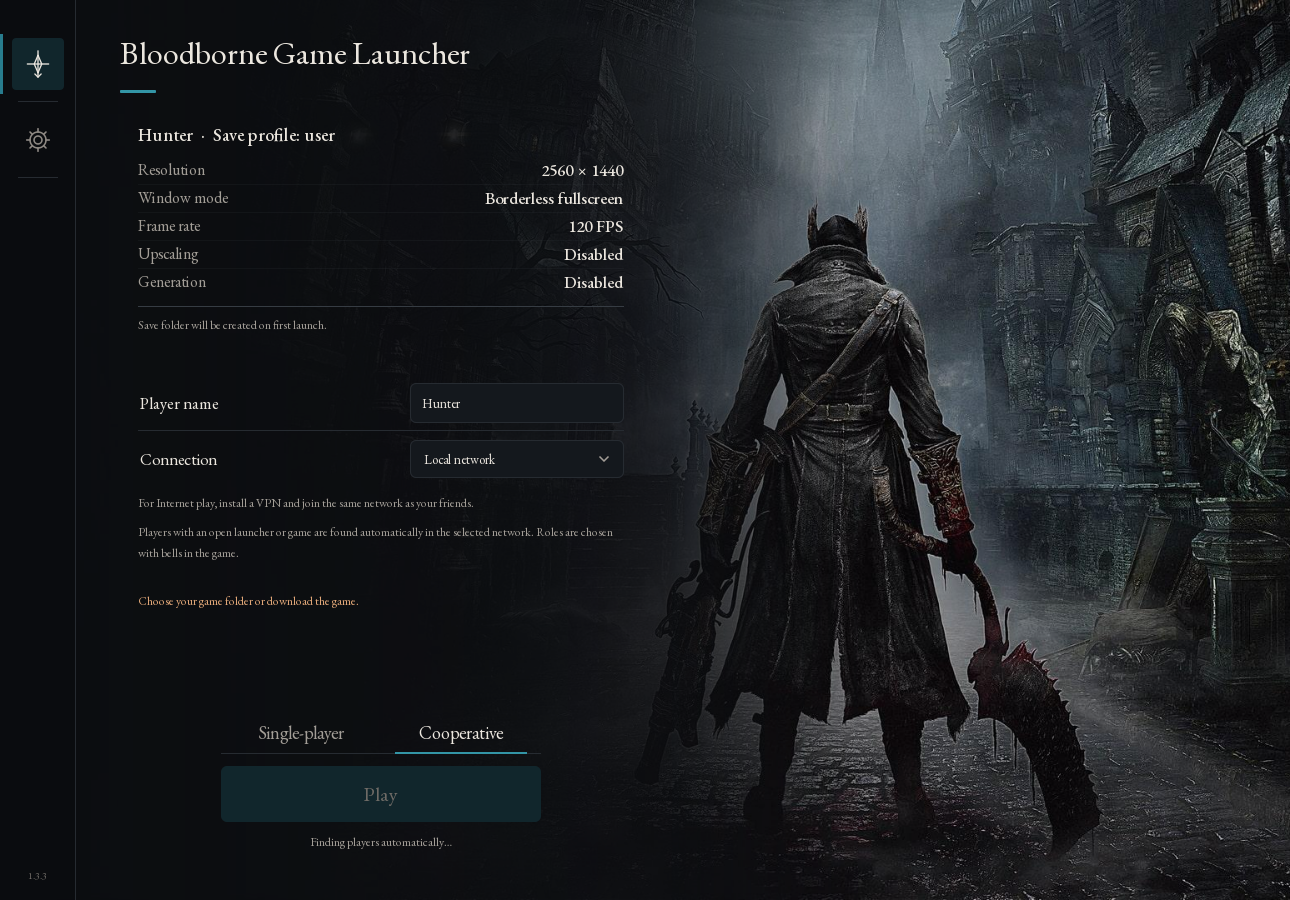
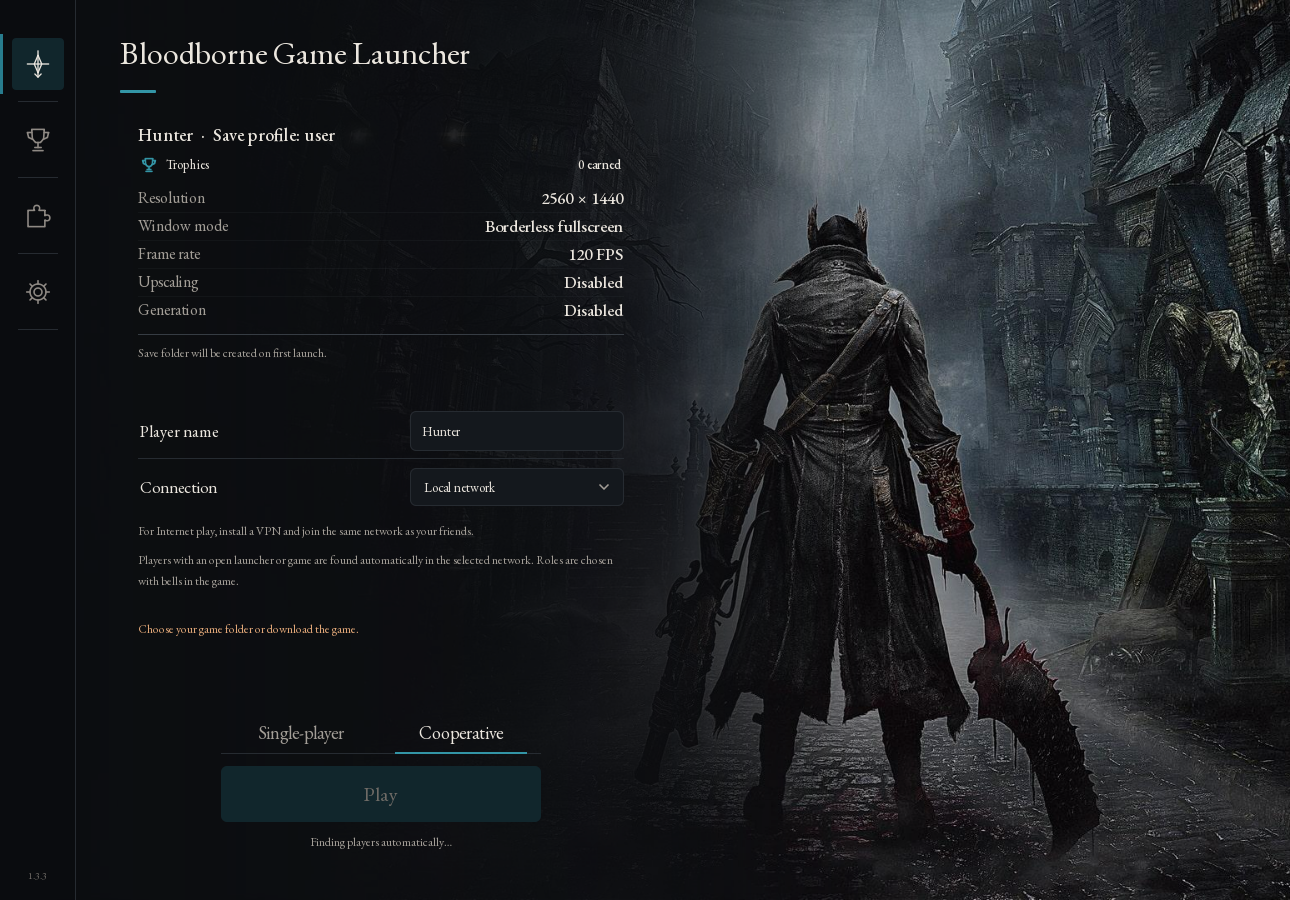
release: prepare BBGL 1.4.0

diff --git a/tools/capture_release_screenshots.py b/tools/capture_release_screenshots.py
@@ -57,16 +57,18 @@ def main():
             window.setWidth(1290)
             window.setHeight(900)
             workspace = window.findChild(QObject, 'settingsWorkspace')
+            mods = window.findChild(QObject, 'modsPage')
+            wizard = window.findChild(QObject, 'setupWizard')
             output = args.output.resolve()
             output.mkdir(parents=True, exist_ok=True)
             shots = [('home', None, None), ('graphics', 'Visuals', 'Display & frame rate')]
             if args.review:
                 import bbport_launcher_backend as model
-                shots = [('home', None, None)]
+                shots = [('home', None, None), ('trophies', 'Trophies', None)]
                 shots += [(f'section-{i}-{j}', category, section)
                           for i, (category, sections) in enumerate(model.SETTINGS_SECTIONS.items())
                           for j, (section, _) in enumerate(sections)]
-                shots += [(f'setup-{step}', 'Setup', step) for step in range(4)]
+                shots += [(f'setup-{step}', 'Setup', step) for step in range(5)]
             sizes = [(1290, 900), (1050, 650)] if args.review else [(1290, 900)]
             metrics = []
             def inspect(item, screen):
@@ -86,10 +88,15 @@ def main():
                     window.setWidth(width)
                     window.setHeight(height)
                     for name, category, section in shots:
-                        window.setProperty('page', 'Setup' if category == 'Setup' else 'Settings' if category else 'Home')
+                        if category in ('Setup', 'Mods', 'Trophies'):
+                            window.setProperty('page', category)
+                        else:
+                            window.setProperty('page', 'Settings' if category else 'Home')
                         if category == 'Setup':
-                            window.findChild(QObject, 'setupWizard').setProperty('step', section)
-                        elif category:
+                            wizard.goToStep(section)
+                        elif category == 'Mods':
+                            mods.openAt(section, '')
+                        elif category and category != 'Trophies':
                             workspace.openAt(category, section, '')
                         QTest.qWait(220 if args.review else 700)
                         suffix = f'-{width}' if args.review else ''

diff --git a/launcher/bbport_launcher_win.py b/launcher/bbport_launcher_win.py
@@ -44,8 +44,8 @@ PATCH_VERSION = '01.09'
 MAX_LOG_LINES = 6000
 NO_WINDOW = getattr(subprocess, 'CREATE_NO_WINDOW', 0)
 # This fork's build; the release tag includes this version.
-VERSION = '1.3.3'
-CURRENT_RELEASE_TAG = 'v1.3.3'
+VERSION = '1.4.0'
+CURRENT_RELEASE_TAG = 'v1.4.0'
 HERO_ART = PORT_DIR / 'launcher' / 'art' / 'hero.png'
 STRIP_ART = PORT_DIR / 'launcher' / 'art' / 'strip.png'
 RELEASES_API = 'https://api.github.com/repos/mark3317/bbgl/releases/latest'

diff --git a/docs/release-1.4.0.md b/docs/release-1.4.0.md
@@ -1,0 +1,33 @@
+# BBGL 1.4.0
+
+- The home screen shows trophy progress for the selected save profile. The new Trophies page lists earned and locked trophies with details and unlock dates where available.
+- Trophy notification settings are shared between the launcher and the in-game overlay. The launcher can preview themes and sounds.
+- Mods and cheats have a dedicated sidebar page. Setup and Settings share the control icon and graphics preset pickers.
+- The in-game System menu uses its compact five-slot frame. Trophies and notification settings remain available through **Insert** or **L3 + R3**. The overlay can toggle invincibility, one-hit kills, invisibility and silent movement during play. Cheats start disabled in a fresh profile.
+- Hunter’s Atlas and unused launcher artwork have been removed. The bundle includes BBSC-GL 1.4.0 and Party. Co-op gameplay code carries over from 1.3.3. [BBSC-GL 1.4.0](https://github.com/mark3317/bbsc-gl/releases/tag/v1.4.0)
+
+### Install or update
+
+Extract `bbgl-1.4.0-windows-x64.zip` and run **Bloodborne.exe**. Use Windows x64, a Vulkan-capable driver and your Bloodborne **CUSA03173 with update 1.09**. Keep your existing profile, saves and custom mods when updating. All co-op players need BBGL 1.4.0 and the same LAN or VPN.
+
+### Gameplay checks
+
+The menu geometry was checked with 1.09 resources, and the live cheat switches were checked on a test bench. Co-op gameplay from the 1.4.0 ZIP and visual inspection of the in-game interface in both languages remain open.
+
+---
+
+## Русский
+
+- На главном экране виден прогресс трофеев выбранного профиля. На странице «Трофеи» показаны открытые и закрытые трофеи, подробности и доступные даты получения.
+- Лаунчер и игровой оверлей используют общие настройки уведомлений. В лаунчере можно посмотреть оформление и прослушать звук.
+- Моды и читы вынесены на отдельную страницу в боковом меню. Мастер первого запуска и настройки используют общие элементы выбора подсказок управления и графического пресета.
+- Меню «Система» использует компактную рамку на пять строк. Трофеи и уведомления доступны через **Insert** или **L3 + R3**. В оверлее можно переключать бессмертие, убийство с одного удара, невидимость и бесшумность во время игры. В новом профиле читы выключены.
+- Удалены Hunter’s Atlas и неиспользуемые изображения лаунчера. В комплект входят BBSC-GL 1.4.0 и Party. Игровая логика кооператива сохранена из 1.3.3. [BBSC-GL 1.4.0](https://github.com/mark3317/bbsc-gl/releases/tag/v1.4.0)
+
+### Установка и обновление
+
+Распакуйте `bbgl-1.4.0-windows-x64.zip` и запустите **Bloodborne.exe**. Нужны Windows x64, драйвер Vulkan и Bloodborne **CUSA03173 с обновлением 1.09**. При обновлении сохраните профиль, сохранения и пользовательские моды. Всем участникам нужны BBGL 1.4.0 и общая локальная сеть или VPN.
+
+### Игровые проверки
+
+Компоновку меню проверили на ресурсах 1.09, а переключатели читов — на стенде. Игровой прогон кооператива из ZIP 1.4.0 и визуальная проверка интерфейса в игре на двух языках открыты.

diff --git a/BUILDING.md b/BUILDING.md
@@ -12,16 +12,16 @@ bash packaging/windows/build-coop-package.sh
 
 The command builds BBSC-GL from `mods-src/BBSC`, builds the port, freezes the launcher and assembles the P2P runtime. FSR-Vulkan is pinned from the [BBGL dependency fork](https://github.com/mark3317/UniversalScalers-Vulkan), which includes the frame-resource lifetime fix used by this release. The current co-op path needs no separate game server, shadNet account or invitation. Historical server build scripts are not part of this release path.
 
-Staging: `out/stage/Bloodborne Game Launcher`. Release: `dist/bbgl-1.3.3-windows-x64.zip` and its `.zip.sha256`. Staging is recreated during packaging; never point it at an installed launcher. Player settings, saves, accounts, logs and game files must not be included.
+Staging: `out/stage/Bloodborne Game Launcher`. Release: `dist/bbgl-1.4.0-windows-x64.zip` and its `.zip.sha256`. Staging is recreated during packaging; never point it at an installed launcher. Player settings, saves, accounts, logs and game files must not be included.
 
 Button prompts and the optional Diamond Sword use binary deltas from `bundled-mods`, applied to the player's own 1.09 files. No game folder is needed to build the release. Diamond Sword and all cheats are disabled by default. Detailed logging, research, profiling and Vulkan validation are opt-in; see [logging policy](docs/LOGGING.md).
 
 `SKIP_BUILD=1` skips only the port for verified launcher-only iterations. BBSC is still rebuilt. A release candidate uses the full command without `BB_FAST_DEPLOY=1`; the fast option is for ordinary local deployment and skips release verification.
 
-`package.sh` verifies the final staging payload once. The wrapper creates the versioned archive and SHA-256. Check ZIP structure, CRC, and file names and contents against verified staging. Smoke-test the frozen launcher from the extracted ZIP in separate English and Russian temporary profiles. Follow [targeted testing rules](docs/TESTING.md); no full test sweep is required just for packaging. Record build, deployment and gameplay validation separately, and disclose untested gameplay changes.
+`package.sh` verifies the final staging payload once. The wrapper creates the versioned archive and SHA-256. Check ZIP structure, CRC, and file names and contents against verified staging. Extract the matching BBSC-GL ZIP from this validated launcher ZIP using its bundled DLL, Party, metadata and licences. Smoke-test the frozen launcher from the extracted ZIP in separate English and Russian temporary profiles. Follow [targeted testing rules](docs/TESTING.md); no full test sweep is required just for packaging. Record build, deployment and gameplay validation separately, and disclose untested gameplay changes.
 
 Commit the intended BBSC changes before updating the parent gitlink. `coop/SOURCE.json` records the mod commit and whether its checkout had local changes; a candidate with local changes is not a reproducible tagged source. Do not publish or push until the user has reviewed the release text. Published tags are immutable.
 
 When building a Git for Windows checkout from MSYS2, use the same line-ending configuration in both environments. If Git for Windows reports a clean checkout but MSYS2 reports only CRLF differences in BBSC dependencies, run the build with `GIT_CONFIG_COUNT=1 GIT_CONFIG_KEY_0=core.autocrlf GIT_CONFIG_VALUE_0=true` in the MSYS2 command environment. Verify that both Git clients report a clean BBSC checkout and that `source_dirty` is false in the final ZIP.
 
-`develop` holds ongoing work; `main` holds release source. The update tag for BBGL 1.3.3 is `v1.3.3`. Previous BBGL tags include `v1.0.0`, `v1.1.0`, `v1.2.0`, `v1.3.0`, `v1.3.1` and `v1.3.2`.
+`develop` holds ongoing work. `main` holds release source. The update tag for BBGL 1.4.0 is `v1.4.0`.

diff --git a/README.md b/README.md
@@ -12,7 +12,7 @@ BBGL brings installation, configuration and launching into one interface. Guided
 
 **The entire main story is playable in co-op, from the beginning through the finale, with a working transition to NG+. A complete playthrough and the move into the next cycle have been tested in-game and confirmed by the user. Chalice dungeons work in co-op, including randomly generated Root Chalices.**
 
-**1.3.3** fixes boss reward confirmation for guests, shared travel through both Lecture Building exits, and guest lamp prompts before victory. The launcher lists frame rates in ascending order with shorter labels. [Release notes and gameplay coverage](docs/release-1.3.3.md).
+**1.4.0** adds a dedicated trophies page, progress next to the save profile, and shared notification settings. Mods and cheats have a dedicated page. The in-game System menu is more compact. [Release notes](docs/release-1.4.0.md).
 
 ## Party and peer-to-peer networking
 
@@ -40,7 +40,7 @@ A complete main-story co-op playthrough and transition to NG+ were confirmed by 
 - **Graphics settings during gameplay.** Change resolution, upscaling and supported graphics effects through the in-game menu without restarting the game, so you can tune image quality and performance during a session.
 - **Redesigned interface.** Guided first launch, settings search, solo/co-op launch selection and LAN/VPN connection checks from the launcher.
 - **Mod management.** One table for load order, toggles, network comparison and missing-mod downloads, with a mismatch warning before launch. Button prompts stay separate. The optional Diamond Sword mod is bundled and disabled by default.
-- **In-game overlay.** Open trophies, map options and diagnostics with **Insert** or **L3 + R3**. The overlay follows the launcher's language.
+- **In-game overlay.** Open trophies, notifications, diagnostics and live cheat toggles with **Insert** or **L3 + R3**. The overlay follows the launcher's language.
 - **Included control prompts.** PlayStation, Xbox and keyboard prompts, with the alternative packs already bundled.
 - **Profile stored separately.** Settings, launcher-managed saves and co-op data live in `%LOCALAPPDATA%\Bloodborne Game Launcher`. Manually selected save folders stay where you chose them.
 
@@ -56,7 +56,7 @@ The interface supports English and Russian. The screenshots show the cooperative
 
 ## Start playing
 
-1. Download `bbgl-1.3.3-windows-x64.zip` from Releases and extract it. Open the **Bloodborne Game Launcher** folder.
+1. Download `bbgl-1.4.0-windows-x64.zip` from Releases and extract it. Open the **Bloodborne Game Launcher** folder.
 2. Run **Bloodborne.exe**. Use the built-in download button in setup or select an existing Bloodborne **CUSA03173, update 1.09** folder. Game files are not included in the launcher archive.
 3. For co-op, connect every PC to the same VPN or LAN. Choose **Local network**, **Tailscale** or **Radmin**; installed VPNs appear in the list and missing ones have installation buttons. Check connectivity, then start the game. Players can join later. No server or invite code is required.
 4. Use the in-game co-op bells to gather your party. Keep everyone on the same BBGL release.

diff --git a/CHANGELOG.md b/CHANGELOG.md
@@ -1,5 +1,15 @@
 # BBGL changelog
 
+## 1.4.0
+
+- На главном экране виден прогресс трофеев выбранного профиля. На отдельной странице доступны список, сведения и даты получения.
+- Настройки уведомлений о трофеях общие для лаунчера и игрового оверлея. Есть предпросмотр темы и звука.
+- Моды и читы перенесены в отдельный раздел. Мастер и настройки используют общие элементы выбора подсказок управления и графического пресета.
+- Из меню «Система» убраны «Достижения» и «Сеть». Оверлей получил переключатели бессмертия, убийства с одного удара, невидимости и бесшумности без перезапуска.
+- Удалены Hunter’s Atlas, неиспользуемые ресурсы лаунчера и устаревшие файлы сборки BBSC-GL. В комплекте BBSC-GL 1.4.0 и локальный Party.
+
+[Описание релиза и границы проверок](docs/release-1.4.0.md).
+
 ## 1.3.3
 
 - В лаунчере частоты кадров отсортированы от 30 до 144 FPS. Подписи упрощены, автоматический лимит называется «Авто (рекомендуется)».

diff --git a/docs/ROADMAP.md b/docs/ROADMAP.md
@@ -1,3 +1,11 @@
+## BBGL 1.4.0
+
+Трофеи получили отдельную страницу, прогресс на главном экране и общие
+настройки уведомлений с игровым оверлеем. Моды и читы вынесены в отдельный
+раздел. Из меню «Система» убраны «Достижения» и «Сеть». Карта Hunter’s
+Atlas и устаревшие файлы удалены. В комплекте BBSC-GL 1.4.0 и Party
+с игровой логикой кооператива 1.3.3. [Описание и установка](release-1.4.0.md).
+
 ## BBGL 1.3.3
 
 В настройках лаунчера частоты кадров идут по возрастанию. Подписи

diff --git a/docs/P2P-HANDOFF.md b/docs/P2P-HANDOFF.md
@@ -1,3 +1,10 @@
+## 08.11.2026 — BBGL 1.4.0
+
+Выпуск обновляет лаунчер, трофеи, оверлей и меню «Система».
+BBSC-GL 1.4.0 сохраняет игровую логику кооператива и Party из 1.3.3.
+Проверка в запущенной игре из ZIP 1.4.0 остаётся открытой.
+[Состав выпуска и границы проверки](release-1.4.0.md).
+
 ## 08.11.2026 — BBGL 1.3.3
 
 Список частот кадров в лаунчере отсортирован, подписи сокращены.

diff --git a/docs/screenshots/README.md b/docs/screenshots/README.md
@@ -1,4 +1,4 @@
-# Скриншоты BBGL 1.3.3
+# Скриншоты BBGL 1.4.0
 
 Сняты 08.11.2026 из текущего QML-интерфейса. Для обновления:
 
